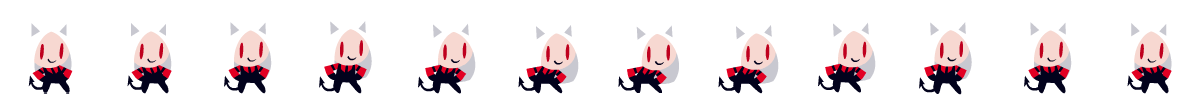
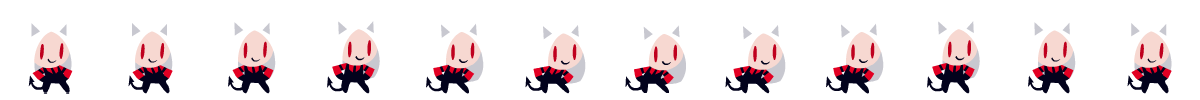
Added rest of the images.
+ Added all the demon sprites.
+ Added references to html, scss and js files.

diff --git a/src/js/music-player.js b/src/js/music-player.js
@@ -33,11 +33,13 @@ const volumeSlider = musicPlayer.querySelector('.volume-bar');
 const volumeFill = musicPlayer.querySelector('.volume-fill');
 
 const azazelDance = document.getElementById('azazel-dance');
-const cerberusDance = document.getElementById('cerberus-dance');
+const cerberus1Dance = document.getElementById('cerberus1-dance');
+const cerberus2Dance = document.getElementById('cerberus2-dance');
+const cerberus3Dance = document.getElementById('cerberus3-dance');
 const pandemonicaDance = document.getElementById('pandemonica-dance');
 const justiceDance = document.getElementById('justice-dance');
 const modeusDance = document.getElementById('modeus-dance');
-const judgmentDance = document.getElementById('judgement-dance');
+const judgementDance = document.getElementById('judgement-dance');
 const zdradaDance = document.getElementById('zdrada-dance');
 const malinaDance = document.getElementById('malina-dance');
 const luciferDance = document.getElementById('lucifer-dance');
@@ -98,7 +100,16 @@ function setBarPos(pos) {
 	const currentFrame = (Math.floor((timeSinceBeat / BEAT_DURATION) * NUMBER_OF_FRAMES) + ANIMATION_OFFSET) % NUMBER_OF_FRAMES;
 
 	azazelDance.style.backgroundPosition = `${currentFrame / (NUMBER_OF_FRAMES - 1) * 100}% 0`;
-	cerberusDance.style.backgroundPosition = `${currentFrame / (NUMBER_OF_FRAMES - 1) * 100}% 0`;
+	cerberus1Dance.style.backgroundPosition = `${currentFrame / (NUMBER_OF_FRAMES - 1) * 100}% 0`;
+	cerberus2Dance.style.backgroundPosition = `${currentFrame / (NUMBER_OF_FRAMES - 1) * 100}% 0`;
+	cerberus3Dance.style.backgroundPosition = `${currentFrame / (NUMBER_OF_FRAMES - 1) * 100}% 0`;
+	justiceDance.style.backgroundPosition = `${currentFrame / (NUMBER_OF_FRAMES - 1) * 100}% 0`;
+	pandemonicaDance.style.backgroundPosition = `${currentFrame / (NUMBER_OF_FRAMES - 1) * 100}% 0`;
+	judgementDance.style.backgroundPosition = `${currentFrame / (NUMBER_OF_FRAMES - 1) * 100}% 0`;
+	modeusDance.style.backgroundPosition = `${currentFrame / (NUMBER_OF_FRAMES - 1) * 100}% 0`;
+	malinaDance.style.backgroundPosition = `${currentFrame / (NUMBER_OF_FRAMES - 1) * 100}% 0`;
+	zdradaDance.style.backgroundPosition = `${currentFrame / (NUMBER_OF_FRAMES - 1) * 100}% 0`;
+	luciferDance.style.backgroundPosition = `${currentFrame / (NUMBER_OF_FRAMES - 1) * 100}% 0`;
 
 	if (
 		(seek > 66 && seek < 96) ||
@@ -106,10 +117,28 @@ function setBarPos(pos) {
 		(seek > 192 && seek < 222)
 	) {
 		azazelDance.style.opacity = 1;
-		cerberusDance.style.opacity = 1;
+		cerberus1Dance.style.opacity = 1;
+		cerberus2Dance.style.opacity = 1;
+		cerberus3Dance.style.opacity = 1;
+		justiceDance.style.opacity = 1;
+		pandemonicaDance.style.opacity = 1;
+		judgementDance.style.opacity = 1;
+		modeusDance.style.opacity = 1;
+		malinaDance.style.opacity = 1;
+		zdradaDance.style.opacity = 1;
+		luciferDance.style.opacity = 1;
 	} else {
 		azazelDance.style.opacity = 0;
-		cerberusDance.style.opacity = 0;
+		cerberus1Dance.style.opacity = 0;
+		cerberus2Dance.style.opacity = 0;
+		cerberus3Dance.style.opacity = 0;
+		justiceDance.style.opacity = 0;
+		pandemonicaDance.style.opacity = 0;
+		judgementDance.style.opacity = 0;
+		modeusDance.style.opacity = 0;
+		malinaDance.style.opacity = 0;
+		zdradaDance.style.opacity = 0;
+		luciferDance.style.opacity = 0;
 	}
 
 	playState.beat = timeSinceBeat;

diff --git a/src/scss/components.scss b/src/scss/components.scss
@@ -211,7 +211,7 @@
 
 	#azazel-dance {
 		position: absolute;
-		left: calc(50% + 310px);
+		left: calc(50% + 610px);
 		bottom: 20%;
 		opacity: 0;
 		transition: 0.5s ease-out opacity;
@@ -232,7 +232,7 @@
 		}
 	}
 
-	#cerberus-dance {
+	#cerberus1-dance {
 		position: absolute;
 		left: 20%;
 		bottom: 20%;
@@ -255,9 +255,55 @@
 		}
 	}
 
+	#cerberus2-dance {
+		position: absolute;
+		left: 24%;
+		bottom: 20%;
+		opacity: 0;
+		transition: 0.5s ease-out opacity;
+		width: 100px;
+		height: 100px;
+		background: url('img/cerberus_dance.png');
+		background-size: cover;
+		z-index: -1;
+		pointer-events: none;
+
+
+		.has-webp & {
+			background-image: url("./img/webp/cerberus_dance.webp");
+		}
+
+		@media (max-width: 1024px) {
+			display: none;
+		}
+	}
+
+	#cerberus3-dance {
+		position: absolute;
+		left: 28%;
+		bottom: 20%;
+		opacity: 0;
+		transition: 0.5s ease-out opacity;
+		width: 100px;
+		height: 100px;
+		background: url('img/cerberus_dance.png');
+		background-size: cover;
+		z-index: -1;
+		pointer-events: none;
+
+
+		.has-webp & {
+			background-image: url("./img/webp/cerberus_dance.webp");
+		}
+
+		@media (max-width: 1024px) {
+			display: none;
+		}
+	}
+
 	#pandemonica-dance {
 		position: absolute;
-		left: calc(50% + 310px);
+		left: 0%;
 		bottom: 20%;
 		opacity: 0;
 		transition: 0.5s ease-out opacity;
@@ -280,7 +326,7 @@
 
 	#modeus-dance {
 		position: absolute;
-		left: calc(50% + 310px);
+		left: 30%;
 		bottom: 20%;
 		opacity: 0;
 		transition: 0.5s ease-out opacity;
@@ -303,7 +349,7 @@
 
 	#judgement-dance {
 		position: absolute;
-		left: calc(50% + 310px);
+		left: 95%;
 		bottom: 20%;
 		opacity: 0;
 		transition: 0.5s ease-out opacity;
@@ -326,7 +372,7 @@
 
 	#justice-dance {
 		position: absolute;
-		left: calc(50% + 310px);
+		left: 70%;
 		bottom: 20%;
 		opacity: 0;
 		transition: 0.5s ease-out opacity;
@@ -349,7 +395,7 @@
 
 	#zdrada-dance {
 		position: absolute;
-		left: calc(50% + 310px);
+		left: 60%;
 		bottom: 20%;
 		opacity: 0;
 		transition: 0.5s ease-out opacity;
@@ -395,7 +441,7 @@
 
 	#lucifer-dance {
 		position: absolute;
-		left: calc(50% + 310px);
+		left: 66%;
 		bottom: 20%;
 		opacity: 0;
 		transition: 0.5s ease-out opacity;

diff --git a/src/index.html b/src/index.html
@@ -165,7 +165,9 @@
 			</p>
 
 			<div id="azazel-dance"></div>
-			<div id="cerberus-dance"></div>
+			<div id="cerberus1-dance"></div>
+			<div id="cerberus2-dance"></div>
+			<div id="cerberus3-dance"></div>
 			<div id="pandemonica-dance"></div>
 			<div id="modeus-dance"></div>
 			<div id="judgement-dance"></div>
